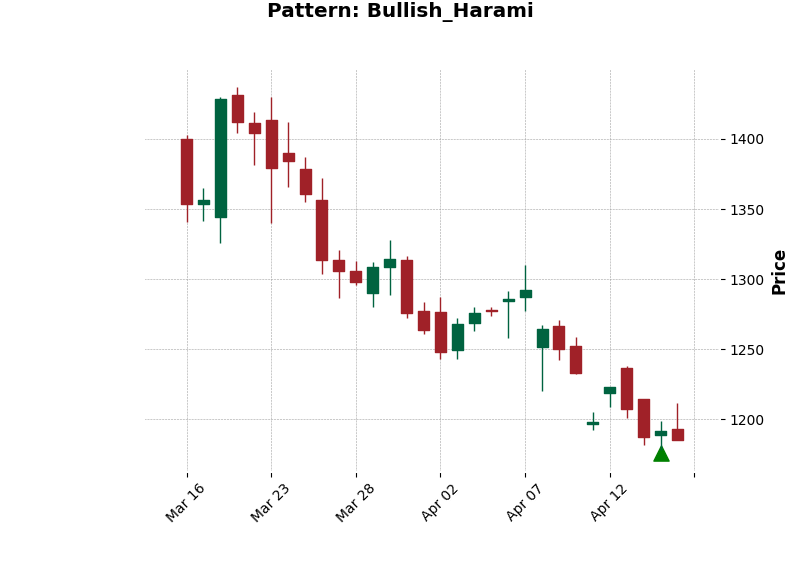
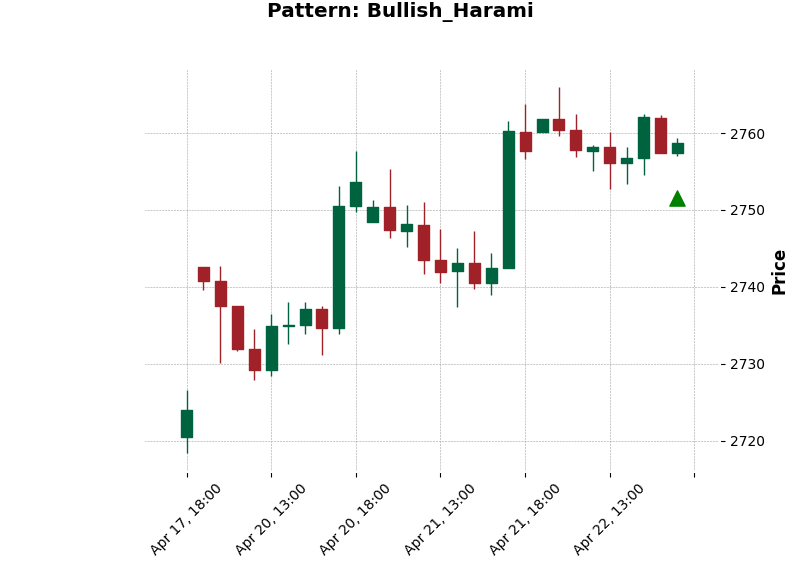
Func draw for Morris Confirmation

diff --git a/Trading/CandlePower02.py b/Trading/CandlePower02.py
@@ -54,6 +54,44 @@ class TelegramNotifier:
             print(f"Ошибка отправки в Telegram: {e}")
         #finally:
             #await self.bot.session.close() # Важно закрывать сессию
+            
+            
+            
+    async def send_confirmation_update(self, ticker, pattern, tf, score, confirmations, file):
+        chat_id = self.timeframe_chats.get(tf)
+        if not chat_id:
+            print(f"⚠ Чат для таймфрейма {tf} не настроен!")
+            return
+        
+        tv_url = f"https://tradingview.com:{ticker}"
+        conf_list = "\n".join([f"✅ {c}" for c in confirmations])
+        
+        caption = (
+            f"⚡ <b>ПОДТВЕРЖДЕНИЕ СИГНАЛА</b>\n\n"
+            f"Акция: <b>{ticker}</b>\n"
+            f"Паттерн: {pattern}\n"
+            f"Таймфрейм: {tf}\n\n"
+            f"📊 <b>Баллы: {score}</b>\n"
+            f"———————————————\n"
+            f"{conf_list}\n"
+            f"———————————————\n\n"
+            f"🔗 <a href='{tv_url}'>График TradingView</a>"
+        )
+        
+        thread_id = self.timeframe_chats.get(tf, 1)
+
+        try:
+            photo = FSInputFile(file)
+            await self.bot.send_photo(
+                chat_id=self.main_chat_id,
+                message_thread_id=thread_id,
+                photo=photo,
+                caption=caption,
+                parse_mode="HTML"
+            )
+            print(f"🚀 Подтверждение по {ticker} ({score} б.) отправлен в тему {thread_id}")
+        except Exception as e:
+            print(f"❌ Ошибка отправки подтверждения: {e}")
 
 class Confirmation(ABC):
     def __init__(self, weight):
@@ -68,7 +106,7 @@ class Confirmation(ABC):
         pass
 
 class MorrisConfirmation(Confirmation):
-    """Классическое подтверждение: закрытие следующей свечи выше/ниже паттерна"""
+    """Классическое подтверждение: закрытие следующей свечи выше/ниже паттерна"""    
     async def check(self, df, state) -> bool:
         last_close = df['close'].iloc[-1]
         prev_close = state['close']
@@ -77,8 +115,28 @@ class MorrisConfirmation(Confirmation):
             return last_close > prev_close
         return last_close < prev_close
     
-    def draw(self, df):
-        pass
+    def draw(self, df, state, ticker, tf):
+        plot_df = df.iloc[-10:].copy()
+        
+        plot_df['datetime'] = pd.to_datetime(plot_df['datetime'])
+        plot_df.set_index('datetime', inplace=True)
+        
+        plot_df['marker_up'] = np.nan
+        
+        plot_df['marker_up'].iloc[-1] = state['close'] * 0.998
+
+        apd = mpf.make_addplot(plot_df['marker_up'], type='scatter', 
+                                         markersize=120, marker='^', color='blue')
+        
+        file_name = f"Trading/Graf/Conf_{ticker}_{tf}_{state['pattern']}_chart.png"
+        mpf.plot(plot_df, type='candle', style='charles',
+                 title=f"Confirmation of pattern: {state['pattern']}",
+                 addplot=apd, savefig=file_name)
+        
+        print(f"✅ График подтверждения для {state['pattern']} сохранен в {file_name}")
+        return file_name
+
+
 
 class LevelConfirmation(Confirmation):
     """Подтверждение по уровням: цена коснулась или находится рядом с S/R"""
@@ -98,7 +156,7 @@ class StateManager:
         # Критерии и их веса
         self.criteria = {
             MorrisConfirmation(weight=1): "Подтверждение по Моррису",
-            LevelConfirmation(weight=2): "Касание уровня S/R",
+            #LevelConfirmation(weight=2): "Касание уровня S/R",
         }
 
     async def process_tick(self, ticker, tf, df, notifier):
@@ -106,21 +164,22 @@ class StateManager:
         if key not in self.pending: return
         
         state = self.pending[key]
+
         # Уменьшаем время жизни
         state['TTL'] -= 1
-        current_score = 0
         achieved_new = []
 
         for conf_obj, label in self.criteria.items():
             if label not in state['confirmation']:
                 if await conf_obj.check(df, state):
-                    current_score += conf_obj.weight
+                    state['score'] += conf_obj.weight
                     state['confirmation'].append(label)
 
-        if current_score > 0 and state['TTL'] > 0:
-            await notifier.send_confirmation_update(
-                ticker, state['pattern'], tf, current_score, state['confirmation']
-            )
+                    if state['TTL'] > 0:
+                        file = conf_obj.draw(df, state, ticker, tf)
+                        await notifier.send_confirmation_update(
+                            ticker, state['pattern'], tf, state['score'], state['confirmation'], file
+                        )
             
         # Сигнал отработал    
         if state['TTL'] == 0:
@@ -138,6 +197,7 @@ class StateManager:
             'type': type, 
             'close': data_close,
             'TTL': lifetime,
+            'score': 0,
             'confirmation': []
             }
 
@@ -424,7 +484,7 @@ async def get_candles(ticker_name, interval='1h', limit = 100, retries=3):
 
 async def scan(tickers, patterns_dict, notifier, state_manager: StateManager, time_frame='1h'):
 
-    print(f"🚀 Запуск сканера подтвержденных сигналов...")
+    print(f"🚀 Запуск сканера подтвержденных сигналов... [{time_frame}]")
     
     for ticker in tickers:
         df = await get_candles(ticker, interval=time_frame, limit=80)
@@ -437,8 +497,11 @@ async def scan(tickers, patterns_dict, notifier, state_manager: StateManager, ti
         for pattern, p_type in patterns_dict.items():
             signals = pattern.check_pattorn(df)
             if signals.iloc[-1]:
-                if f"{ticker}_{time_frame}" in state_manager.pending:
-                    continue 
+                ticker_key = f"{ticker}_{time_frame}"
+                
+                if ticker_key in state_manager.pending:
+                    if state_manager.pending[ticker_key]['pattern'] == pattern.name:
+                        continue 
                 print(f"🚨 СИГНАЛ! {pattern.name} по {ticker}")
                 
                 chart_path = pattern.draw(df)
@@ -447,7 +510,7 @@ async def scan(tickers, patterns_dict, notifier, state_manager: StateManager, ti
                 state_manager.add_pattern(
                     ticker, time_frame, pattern.name, p_type, df.iloc[-1]['close'], lifetime=4
                 )
-                
+                print(state_manager.pending)
         await asyncio.sleep(0.5)
         
     print(f'{time_frame} проверен!')
